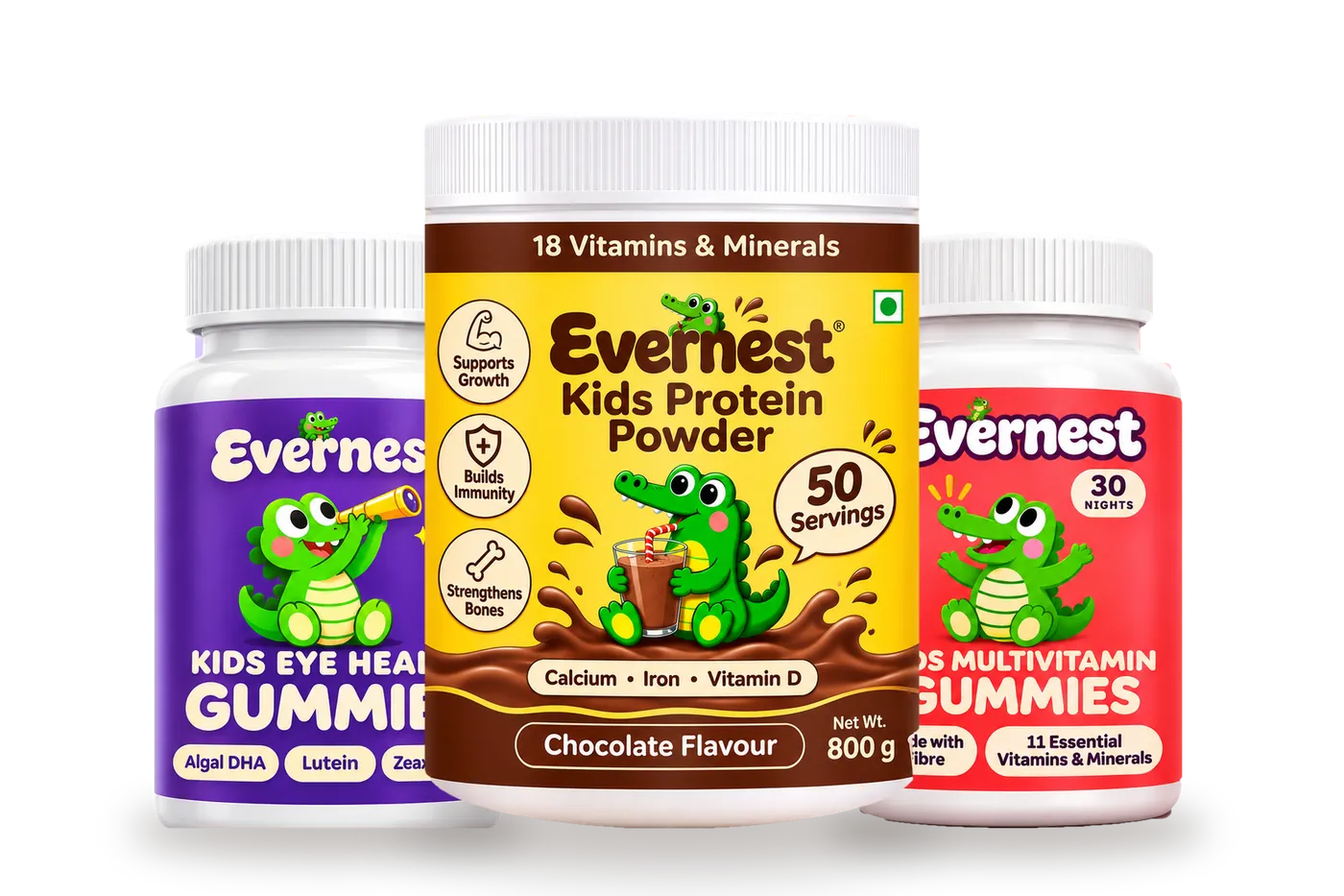
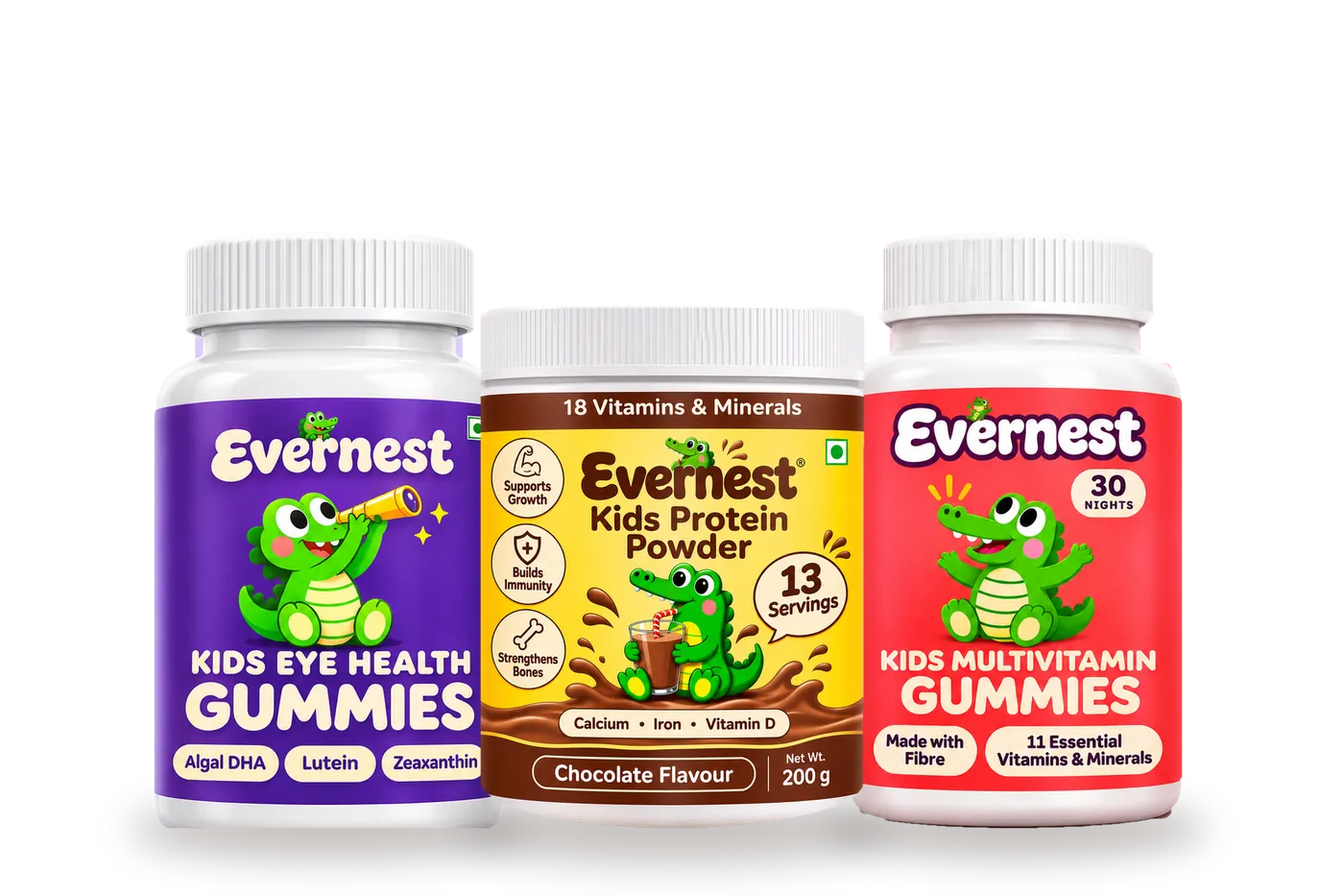
Trio: new 200 g combo hero image, 200 g contents, bundle price Rs 1,437 (MRP 1,597)
Claude-Session: https://claude.ai/code/session_01MW4qc25ku1oEKLCrFeDAAU

Changed region(s): [[0.3071, 0.1243, 0.7064, 0.9325]]

diff --git a/products/evernest-trio/index.html b/products/evernest-trio/index.html
@@ -4,10 +4,10 @@
 <meta charset="utf-8">
 <meta name="viewport" content="width=device-width,initial-scale=1">
 <title>The Evernest Trio</title>
-<meta name="description" content="The Evernest Trio by Evernest. Protein, eye health and multivitamin in one box. Three daily jobs, one easy order. Starting at ₹2,337.">
+<meta name="description" content="The Evernest Trio by Evernest. Protein, eye health and multivitamin in one box. Three daily jobs, one easy order. Starting at ₹1,437.">
 <meta name="theme-color" content="#068A3A">
 <meta property="og:type" content="website"><meta property="og:site_name" content="Evernest">
-<meta property="og:title" content="The Evernest Trio"><meta property="og:description" content="The Evernest Trio by Evernest. Protein, eye health and multivitamin in one box. Three daily jobs, one easy order. Starting at ₹2,337.">
+<meta property="og:title" content="The Evernest Trio"><meta property="og:description" content="The Evernest Trio by Evernest. Protein, eye health and multivitamin in one box. Three daily jobs, one easy order. Starting at ₹1,437.">
 <link rel="canonical" href="https://evernest.space/products/evernest-trio/">
 <link rel="icon" href="../../assets/img/brand/favicon.png?v=b1b62ef7" type="image/png" sizes="64x64">
 <link rel="apple-touch-icon" href="../../assets/img/brand/apple-touch-icon.png?v=0d8b75c6">
@@ -16,8 +16,8 @@
 <link rel="stylesheet" href="../../assets/css/fonts.css?v=3dc87627">
 <link rel="stylesheet" href="../../assets/css/style.css?v=43767b24">
 <meta name="evernest-build" content="631c75e5-a">
-<script type="application/ld+json">{"@context": "https://schema.org", "@type": "Product", "name": "The Evernest Trio", "description": "The Evernest Kids Wellness Combo brings our three heroes together: Kids Protein Powder (800 g, Chocolate), Kids Eye Health Gummies (30) and Kids Multivitamin Gummies (30). One box for growth, bright eyes and everyday immunity, at a bundle price.", "brand": {"@type": "Brand", "name": "Evernest"}, "offers": {"@type": "Offer", "priceCurrency": "INR", "price": "2337", "availability": "https://schema.org/InStock"}}</script>
-<script>window.EVN_PRODUCT={"slug": "evernest-trio", "name": "The Evernest Trio", "mrp": 2597, "flavour": "", "thumb": "../../assets/img/p/trio-front.webp?v=1e6b3ded", "url": "../../products/evernest-trio/", "packs": [{"n": 1, "price": 2337, "label": "Trio box"}]};</script>
+<script type="application/ld+json">{"@context": "https://schema.org", "@type": "Product", "name": "The Evernest Trio", "description": "The Evernest Kids Wellness Combo brings our three heroes together: Kids Protein Powder (200 g, Chocolate), Kids Eye Health Gummies (30) and Kids Multivitamin Gummies (30). One box for growth, bright eyes and everyday immunity, at a bundle price.", "brand": {"@type": "Brand", "name": "Evernest"}, "offers": {"@type": "Offer", "priceCurrency": "INR", "price": "1437", "availability": "https://schema.org/InStock"}}</script>
+<script>window.EVN_PRODUCT={"slug": "evernest-trio", "name": "The Evernest Trio", "mrp": 1597, "flavour": "", "thumb": "../../assets/img/p/trio-front.webp?v=ff8b6d36", "url": "../../products/evernest-trio/", "packs": [{"n": 1, "price": 1437, "label": "Trio box"}]};</script>
 </head>
 <body class="pg-pdp theme-blue">
 <a class="sr" href="#main">Skip to content</a>
@@ -36,16 +36,16 @@
 <section class="pdp pdp2" style="--tint:#F3EEFF" data-say="Choose a pack size!"><div class="container">
 <nav class="crumbs" aria-label="Breadcrumb"><a href="../../">Home</a> <span>/</span> <a href="../../shop/">Shop</a> <span>/</span> <b>The Evernest Trio</b></nav>
 <div class="pdp-grid">
-<div class="gallery"><div class="gsticky"><div class="gstage"><div class="gmain" role="group" aria-roledescription="carousel" aria-label="Product gallery"><div class="slide s1 on" aria-roledescription="slide" aria-label="The Evernest Kids Wellness Combo"><img class="js-pack" src="../../assets/img/p/trio-g1.webp?v=d229d8b5" alt="The Evernest Kids Wellness Combo" width="1000" height="1000" fetchpriority="high"></div><div class="slide" aria-roledescription="slide" aria-label="Protein, Eye Health and Multivitamin together"><img src="../../assets/img/p/trio-g2.webp?v=c49e5e3c" alt="Protein, Eye Health and Multivitamin together" width="1000" height="1000" decoding="async"></div><div class="slide" aria-roledescription="slide" aria-label="What is in the box"><img src="../../assets/img/p/trio-g3.webp?v=035778a3" alt="What is in the box" width="1000" height="1000" decoding="async"></div><div class="slide" aria-roledescription="slide" aria-label="Three daily jobs"><img src="../../assets/img/p/trio-g4.webp?v=c4faa159" alt="Three daily jobs" width="1000" height="1000" decoding="async"></div><div class="slide" aria-roledescription="slide" aria-label="A simple daily routine"><img src="../../assets/img/p/trio-g5.webp?v=2a786918" alt="A simple daily routine" width="1000" height="1000" decoding="async"></div>
+<div class="gallery"><div class="gsticky"><div class="gstage"><div class="gmain" role="group" aria-roledescription="carousel" aria-label="Product gallery"><div class="slide s1 on" aria-roledescription="slide" aria-label="The Evernest Kids Wellness Combo"><img class="js-pack" src="../../assets/img/p/trio-g1.webp?v=4593bebc" alt="The Evernest Kids Wellness Combo" width="1000" height="1000" fetchpriority="high"></div><div class="slide" aria-roledescription="slide" aria-label="Protein, Eye Health and Multivitamin together"><img src="../../assets/img/p/trio-g2.webp?v=4813f4c9" alt="Protein, Eye Health and Multivitamin together" width="1000" height="1000" decoding="async"></div><div class="slide" aria-roledescription="slide" aria-label="What is in the box"><img src="../../assets/img/p/trio-g3.webp?v=7dfbf26e" alt="What is in the box" width="1000" height="1000" decoding="async"></div><div class="slide" aria-roledescription="slide" aria-label="Three daily jobs"><img src="../../assets/img/p/trio-g4.webp?v=c9387bc4" alt="Three daily jobs" width="1000" height="1000" decoding="async"></div><div class="slide" aria-roledescription="slide" aria-label="A simple daily routine"><img src="../../assets/img/p/trio-g5.webp?v=382d7115" alt="A simple daily routine" width="1000" height="1000" decoding="async"></div>
 <div class="arrows"><button class="prev" type="button" aria-label="Previous">&larr;</button><button class="next" type="button" aria-label="Next">&rarr;</button></div><span class="gcount" id="gcount" aria-hidden="true"></span></div></div>
-<div class="gthumbs"><button class="gthumb" type="button" aria-label="The Evernest Kids Wellness Combo" aria-selected="true"><img src="../../assets/img/p/trio-g1.webp?v=d229d8b5" alt="" width="120" height="120" decoding="async"></button><button class="gthumb" type="button" aria-label="Protein, Eye Health and Multivitamin together" aria-selected="false"><img src="../../assets/img/p/trio-g2.webp?v=c49e5e3c" alt="" width="120" height="120" decoding="async"></button><button class="gthumb" type="button" aria-label="What is in the box" aria-selected="false"><img src="../../assets/img/p/trio-g3.webp?v=035778a3" alt="" width="120" height="120" decoding="async"></button><button class="gthumb" type="button" aria-label="Three daily jobs" aria-selected="false"><img src="../../assets/img/p/trio-g4.webp?v=c4faa159" alt="" width="120" height="120" decoding="async"></button><button class="gthumb" type="button" aria-label="A simple daily routine" aria-selected="false"><img src="../../assets/img/p/trio-g5.webp?v=2a786918" alt="" width="120" height="120" decoding="async"></button></div></div>
+<div class="gthumbs"><button class="gthumb" type="button" aria-label="The Evernest Kids Wellness Combo" aria-selected="true"><img src="../../assets/img/p/trio-g1.webp?v=4593bebc" alt="" width="120" height="120" decoding="async"></button><button class="gthumb" type="button" aria-label="Protein, Eye Health and Multivitamin together" aria-selected="false"><img src="../../assets/img/p/trio-g2.webp?v=4813f4c9" alt="" width="120" height="120" decoding="async"></button><button class="gthumb" type="button" aria-label="What is in the box" aria-selected="false"><img src="../../assets/img/p/trio-g3.webp?v=7dfbf26e" alt="" width="120" height="120" decoding="async"></button><button class="gthumb" type="button" aria-label="Three daily jobs" aria-selected="false"><img src="../../assets/img/p/trio-g4.webp?v=c9387bc4" alt="" width="120" height="120" decoding="async"></button><button class="gthumb" type="button" aria-label="A simple daily routine" aria-selected="false"><img src="../../assets/img/p/trio-g5.webp?v=382d7115" alt="" width="120" height="120" decoding="async"></button></div></div>
 <div class="gbadges" aria-label="Key benefits"><div class="gb"><span class="gb-c"><svg class="icon " width="34" height="34" viewBox="0 0 48 48" aria-hidden="true"><g transform="rotate(-45 24 24)"><rect x="11" y="19.5" width="26" height="9" rx="3" fill="currentColor"/><circle cx="10" cy="18" r="5.5" fill="currentColor"/><circle cx="10" cy="30" r="5.5" fill="currentColor"/><circle cx="38" cy="18" r="5.5" fill="currentColor"/><circle cx="38" cy="30" r="5.5" fill="currentColor"/></g></svg></span><small>Strong Bones</small></div><div class="gb"><span class="gb-c"><svg class="icon " width="34" height="34" viewBox="0 0 48 48" aria-hidden="true"><path d="M4 24 Q24 6 44 24 Q24 42 4 24Z" fill="#fff"/><circle cx="24" cy="24" r="9" fill="currentColor"/><circle cx="27" cy="21" r="3" fill="#fff"/></svg></span><small>Eye Health</small></div><div class="gb"><span class="gb-c"><svg class="icon " width="34" height="34" viewBox="0 0 48 48" aria-hidden="true"><path d="M24 5 L40 11 V24 Q40 37 24 44 Q8 37 8 24 V11 Z" fill="currentColor"/><path d="M16 24 L22 30 L33 18" fill="none" stroke="#fff" stroke-width="4" stroke-linecap="round" stroke-linejoin="round"/></svg></span><small>Daily Immunity</small></div><div class="gb"><span class="gb-c"><svg class="icon " width="34" height="34" viewBox="0 0 48 48" aria-hidden="true"><path d="M24 14 C16 8 6 14 8 26 C10 38 18 44 24 40 C30 44 38 38 40 26 C42 14 32 8 24 14Z" fill="currentColor"/><path d="M24 14 Q24 8 28 5" fill="none" stroke="#4B2A17" stroke-width="3" stroke-linecap="round"/><path d="M28 9 q8 -2 10 4 q-8 3 -10 -4" fill="#17A34A"/></svg></span><small>Daily Nutrition</small></div></div>
 <div class="gpromo"><svg class="icon " width="22" height="22" viewBox="0 0 48 48" aria-hidden="true"><rect x="3" y="14" width="26" height="18" rx="3" fill="#17130F"/><path d="M29 20 H38 L44 27 V32 H29Z" fill="#17130F"/><circle cx="14" cy="34" r="5" fill="#fff"/><circle cx="36" cy="34" r="5" fill="#fff"/></svg><span><b>Free delivery</b> on orders above Rs. 499. Pay with UPI, cards and more.</span></div></div>
 <div class="bb">
 <h1>The Evernest Trio</h1>
-<ul class="points"><li><svg class="icon " width="20" height="20" viewBox="0 0 48 48" aria-hidden="true"><circle cx="24" cy="24" r="19" fill="currentColor"/><path d="M14 25 L21 32 L34 17" fill="none" stroke="#fff" stroke-width="5" stroke-linecap="round" stroke-linejoin="round"/></svg><span>Kids Protein Powder 800 g (Chocolate), Eye Health Gummies (30) and Multivitamin Gummies (30)</span></li><li><svg class="icon " width="20" height="20" viewBox="0 0 48 48" aria-hidden="true"><circle cx="24" cy="24" r="19" fill="currentColor"/><path d="M14 25 L21 32 L34 17" fill="none" stroke="#fff" stroke-width="5" stroke-linecap="round" stroke-linejoin="round"/></svg><span>Protein with calcium, iron and vitamin D, DHA with lutein and zeaxanthin, and 11 vitamins and minerals</span></li><li><svg class="icon " width="20" height="20" viewBox="0 0 48 48" aria-hidden="true"><circle cx="24" cy="24" r="19" fill="currentColor"/><path d="M14 25 L21 32 L34 17" fill="none" stroke="#fff" stroke-width="5" stroke-linecap="round" stroke-linejoin="round"/></svg><span>Bundle price, and free delivery included</span></li></ul>
+<ul class="points"><li><svg class="icon " width="20" height="20" viewBox="0 0 48 48" aria-hidden="true"><circle cx="24" cy="24" r="19" fill="currentColor"/><path d="M14 25 L21 32 L34 17" fill="none" stroke="#fff" stroke-width="5" stroke-linecap="round" stroke-linejoin="round"/></svg><span>Kids Protein Powder 200 g (Chocolate), Eye Health Gummies (30) and Multivitamin Gummies (30)</span></li><li><svg class="icon " width="20" height="20" viewBox="0 0 48 48" aria-hidden="true"><circle cx="24" cy="24" r="19" fill="currentColor"/><path d="M14 25 L21 32 L34 17" fill="none" stroke="#fff" stroke-width="5" stroke-linecap="round" stroke-linejoin="round"/></svg><span>Protein with calcium, iron and vitamin D, DHA with lutein and zeaxanthin, and 11 vitamins and minerals</span></li><li><svg class="icon " width="20" height="20" viewBox="0 0 48 48" aria-hidden="true"><circle cx="24" cy="24" r="19" fill="currentColor"/><path d="M14 25 L21 32 L34 17" fill="none" stroke="#fff" stroke-width="5" stroke-linecap="round" stroke-linejoin="round"/></svg><span>Bundle price, and free delivery included</span></li></ul>
 <div class="meta"><span class="flavtag">3 products</span></div>
-<div class="price"><span class="now" id="pr-now">₹2,337</span><span class="mrp" id="pr-mrp">₹2,597</span><span class="off" id="pr-off">10% off</span></div>
+<div class="price"><span class="now" id="pr-now">₹1,437</span><span class="mrp" id="pr-mrp">₹1,597</span><span class="off" id="pr-off">10% off</span></div>
 <p class="tax">Inclusive of all taxes. <span id="pr-per" style="font-weight:700"></span></p>
 
 <div class="qty-row"><div class="qty" aria-label="Quantity"><button type="button" id="qty-minus" aria-label="Decrease">&minus;</button><output id="qty-out" aria-live="polite">1</output><button type="button" id="qty-plus" aria-label="Increase">+</button></div>
@@ -55,8 +55,8 @@
 <div class="trust3"><div class="tr"><div class="ic"><svg class="icon " width="22" height="22" viewBox="0 0 48 48" aria-hidden="true"><circle cx="24" cy="24" r="19" fill="#17130F"/><path d="M14 25 L21 32 L34 17" fill="none" stroke="#fff" stroke-width="5" stroke-linecap="round" stroke-linejoin="round"/></svg></div><b>Easy replacements</b><small>Wrong or damaged? We replace it</small></div><div class="tr"><div class="ic"><svg class="icon " width="22" height="22" viewBox="0 0 48 48" aria-hidden="true"><path d="M4 8 H11 L16 32 H37 L42 14 H13" fill="none" stroke="#17130F" stroke-width="4.5" stroke-linecap="round" stroke-linejoin="round"/><circle cx="19" cy="40" r="3.5" fill="#17130F"/><circle cx="34" cy="40" r="3.5" fill="#17130F"/></svg></div><b>COD available</b><small>Pay when it arrives</small></div><div class="tr"><div class="ic"><svg class="icon " width="22" height="22" viewBox="0 0 48 48" aria-hidden="true"><rect x="3" y="14" width="26" height="18" rx="3" fill="#17130F"/><path d="M29 20 H38 L44 27 V32 H29Z" fill="#17130F"/><circle cx="14" cy="34" r="5" fill="#fff"/><circle cx="36" cy="34" r="5" fill="#fff"/></svg></div><b>Delivery in 3 to 7 days</b><small>Free above Rs. 499</small></div></div>
 <div class="pay-strip"><div class="t"><svg class="icon " width="14" height="14" viewBox="0 0 48 48" aria-hidden="true"><rect x="9" y="21" width="30" height="21" rx="5" fill="#17130F"/><path d="M15 21 V15 Q15 7 24 7 Q33 7 33 15 V21" fill="none" stroke="#17130F" stroke-width="5"/><circle cx="24" cy="31" r="3.5" fill="#fff"/></svg> Pay your way, we accept:</div><div class="pay"><span class="pm" title="Visa"><img src="../../assets/img/pay/visa.svg?v=2660af94" alt="Visa" width="37" height="12" style="--h:12px" loading="lazy" decoding="async"></span><span class="pm" title="UPI"><img src="../../assets/img/pay/upi.svg?v=94251836" alt="UPI" width="40" height="14" style="--h:14px" loading="lazy" decoding="async"></span><span class="pm" title="Google Pay"><img src="../../assets/img/pay/gpay.svg?v=ea65638c" alt="Google Pay" width="35" height="14" style="--h:14px" loading="lazy" decoding="async"></span><span class="pm" title="Mastercard"><img src="../../assets/img/pay/mastercard.svg?v=3f026743" alt="Mastercard" width="22" height="17" style="--h:17px" loading="lazy" decoding="async"></span><span class="pm" title="Paytm"><img src="../../assets/img/pay/paytm.svg?v=549cc018" alt="Paytm" width="29" height="9" style="--h:9px" loading="lazy" decoding="async"></span><span class="pm" title="PhonePe"><img src="../../assets/img/pay/phonepe.svg?v=51b202cf" alt="PhonePe" width="43" height="13" style="--h:13px" loading="lazy" decoding="async"></span></div></div>
 <div class="acc">
-<details><summary>About this product</summary><div class="ans"><p>The Evernest Kids Wellness Combo brings our three heroes together: Kids Protein Powder (800 g, Chocolate), Kids Eye Health Gummies (30) and Kids Multivitamin Gummies (30). One box for growth, bright eyes and everyday immunity, at a bundle price.</p></div></details>
-<details><summary>What is in the box</summary><div class="ans"><ul><li><b>Kids Protein Powder:</b> 800 g, Chocolate flavour, 50 servings of 15 g with 18 vitamins and minerals.</li><li><b>Kids Eye Health Gummies:</b> 30 gummies with Algal DHA, Lutein and Zeaxanthin for healthy eyes.</li><li><b>Kids Multivitamin Gummies:</b> 30 gummies with 11 essential vitamins and minerals and fibre.</li></ul><p class="note-small" style="margin-top:.6rem">Please refer to the label on the pack for the complete ingredient list, amounts and allergen information.</p></div></details>
+<details><summary>About this product</summary><div class="ans"><p>The Evernest Kids Wellness Combo brings our three heroes together: Kids Protein Powder (200 g, Chocolate), Kids Eye Health Gummies (30) and Kids Multivitamin Gummies (30). One box for growth, bright eyes and everyday immunity, at a bundle price.</p></div></details>
+<details><summary>What is in the box</summary><div class="ans"><ul><li><b>Kids Protein Powder:</b> 200 g, Chocolate flavour, 13 servings of 15 g with 18 vitamins and minerals.</li><li><b>Kids Eye Health Gummies:</b> 30 gummies with Algal DHA, Lutein and Zeaxanthin for healthy eyes.</li><li><b>Kids Multivitamin Gummies:</b> 30 gummies with 11 essential vitamins and minerals and fibre.</li></ul><p class="note-small" style="margin-top:.6rem">Please refer to the label on the pack for the complete ingredient list, amounts and allergen information.</p></div></details>
 <details><summary>Good to know</summary><div class="ans"><ul><li>Supplements to a balanced diet. They do not replace fruits, vegetables and proper meals.</li><li>Gummies are recommended for children aged 3 and above, protein for ages 4 and above. Always supervise young children while eating gummies.</li><li>Please read the allergen information and serving size printed on each pack. Check with your paediatrician if your child has a medical condition.</li></ul></div></details>
 </div>
 </div></div></div></section>
@@ -68,21 +68,21 @@
 <div class="b2-grid"><div class="b2 t0 reveal d1"><div class="b2-ic"><svg class="icon " width="34" height="34" viewBox="0 0 48 48" aria-hidden="true"><path d="M28 4 L10 27 H22 L18 44 L38 19 H26 Z" fill="#17130F"/></svg></div><h3>Fuel for growth</h3><p>Protein with calcium, iron and vitamin D for growing muscles, bones and play day energy.</p></div><div class="b2 t1 reveal d2"><div class="b2-ic"><svg class="icon " width="34" height="34" viewBox="0 0 48 48" aria-hidden="true"><path d="M4 24 Q24 6 44 24 Q24 42 4 24Z" fill="#fff"/><circle cx="24" cy="24" r="9" fill="#17130F"/><circle cx="27" cy="21" r="3" fill="#fff"/></svg></div><h3>Bright eyes</h3><p>Algal DHA, lutein and zeaxanthin to support healthy eyes in the screen and study years.</p></div><div class="b2 t2 reveal d3"><div class="b2-ic"><svg class="icon " width="34" height="34" viewBox="0 0 48 48" aria-hidden="true"><path d="M24 5 L40 11 V24 Q40 37 24 44 Q8 37 8 24 V11 Z" fill="#17130F"/><path d="M16 24 L22 30 L33 18" fill="none" stroke="#fff" stroke-width="4" stroke-linecap="round" stroke-linejoin="round"/></svg></div><h3>Daily immunity</h3><p>Vitamin C, zinc and 9 more vitamins and minerals in one tasty gummy.</p></div><div class="b2 t3 reveal d4"><div class="b2-ic"><svg class="icon " width="34" height="34" viewBox="0 0 48 48" aria-hidden="true"><path d="M24 41 C6 28 6 12 17 11 C21 11 23 13 24 16 C25 13 27 11 31 11 C42 12 42 28 24 41Z" fill="#17130F"/></svg></div><h3>Easier for parents</h3><p>One box, one routine, one delivery. No hunting for three separate orders.</p></div></div></div></section>
 
 <section class="pdp-sec s-well"><div class="container well">
-<div class="well-img reveal"><img src="../../assets/img/p/trio-g2.webp?v=c49e5e3c" alt="The Evernest Trio lifestyle" width="1000" height="1000" loading="lazy"></div>
+<div class="well-img reveal"><img src="../../assets/img/p/trio-g2.webp?v=4813f4c9" alt="The Evernest Trio lifestyle" width="1000" height="1000" loading="lazy"></div>
 <div class="well-tx reveal d1"><span class="eyebrow">made with care</span><h2>One box for everyday wellness</h2><p>Instead of picking one product, give your child a complete daily routine: a protein drink for growth, a gummy for eye health and a multivitamin gummy for everyday immunity.</p><ul class="points big"><li><svg class="icon " width="20" height="20" viewBox="0 0 48 48" aria-hidden="true"><circle cx="24" cy="24" r="19" fill="currentColor"/><path d="M14 25 L21 32 L34 17" fill="none" stroke="#fff" stroke-width="5" stroke-linecap="round" stroke-linejoin="round"/></svg><span>Protein with calcium, iron and vitamin D to support growth and strong bones</span></li><li><svg class="icon " width="20" height="20" viewBox="0 0 48 48" aria-hidden="true"><circle cx="24" cy="24" r="19" fill="currentColor"/><path d="M14 25 L21 32 L34 17" fill="none" stroke="#fff" stroke-width="5" stroke-linecap="round" stroke-linejoin="round"/></svg><span>Algal DHA, lutein and zeaxanthin to support normal eye health</span></li><li><svg class="icon " width="20" height="20" viewBox="0 0 48 48" aria-hidden="true"><circle cx="24" cy="24" r="19" fill="currentColor"/><path d="M14 25 L21 32 L34 17" fill="none" stroke="#fff" stroke-width="5" stroke-linecap="round" stroke-linejoin="round"/></svg><span>11 vitamins and minerals to support everyday immunity and development</span></li><li><svg class="icon " width="20" height="20" viewBox="0 0 48 48" aria-hidden="true"><circle cx="24" cy="24" r="19" fill="currentColor"/><path d="M14 25 L21 32 L34 17" fill="none" stroke="#fff" stroke-width="5" stroke-linecap="round" stroke-linejoin="round"/></svg><span>One order, one delivery, a better price than buying separately</span></li></ul>
 <button class="btn btn-lg js-pdp-buy" type="button">Buy now</button></div></div></section>
-<section class="pdp-sec s-banner"><div class="container"><div class="bnr reveal"><img src="../../assets/img/p/trio-banner.webp?v=3f5b6886" alt="Evernest Kids Wellness Combo benefits" width="1000" height="512" loading="lazy"></div></div></section>
+<section class="pdp-sec s-banner"><div class="container"><div class="bnr reveal"><img src="../../assets/img/p/trio-banner.webp?v=aca56bd9" alt="Evernest Kids Wellness Combo benefits" width="1000" height="512" loading="lazy"></div></div></section>
 <section class="pdp-sec s-ing"><div class="container">
 <div class="sec-head"><span class="eyebrow reveal">peek inside</span><h2 class="sec-title reveal d1">What is <span class="ul">in the box<svg viewBox="0 0 200 20" preserveAspectRatio="none" aria-hidden="true"><path d="M3 12 C38 4 74 17 112 9 S178 7 197 13"/></svg></span></h2><p class="sec-sub reveal d2">Three products, each with its full list and amounts on the pack.</p></div>
-<div class="i2-grid"><div class="i2 reveal d1"><span class="i2-c">P</span><h3>Kids Protein Powder</h3><p>800 g, Chocolate flavour, 50 servings of 15 g with 18 vitamins and minerals.</p></div><div class="i2 reveal d2"><span class="i2-c">Eye</span><h3>Kids Eye Health Gummies</h3><p>30 gummies with Algal DHA, Lutein and Zeaxanthin for healthy eyes.</p></div><div class="i2 reveal d3"><span class="i2-c">MV</span><h3>Kids Multivitamin Gummies</h3><p>30 gummies with 11 essential vitamins and minerals and fibre.</p></div></div></div></section>
+<div class="i2-grid"><div class="i2 reveal d1"><span class="i2-c">P</span><h3>Kids Protein Powder</h3><p>200 g, Chocolate flavour, 13 servings of 15 g with 18 vitamins and minerals.</p></div><div class="i2 reveal d2"><span class="i2-c">Eye</span><h3>Kids Eye Health Gummies</h3><p>30 gummies with Algal DHA, Lutein and Zeaxanthin for healthy eyes.</p></div><div class="i2 reveal d3"><span class="i2-c">MV</span><h3>Kids Multivitamin Gummies</h3><p>30 gummies with 11 essential vitamins and minerals and fibre.</p></div></div></div></section>
 
 <section class="pdp-sec s-info"><div class="container">
 <div class="sec-head"><span class="eyebrow reveal">the details</span><h2 class="sec-title reveal d1">Product <span class="ul">information<svg viewBox="0 0 200 20" preserveAspectRatio="none" aria-hidden="true"><path d="M3 12 C38 4 74 17 112 9 S178 7 197 13"/></svg></span></h2></div>
-<div class="comp"><table><caption class="sr">Box contents for The Evernest Trio</caption><tr class="ch"><th>Nutrient</th><th>Details</th></tr><tr class="cg"><th colspan="2">Kids Protein Powder</th></tr><tr><td>Size</td><td>800 g</td></tr><tr><td>Flavour</td><td>Chocolate</td></tr><tr><td>Servings</td><td>50 servings of 15 g</td></tr><tr><td>Key nutrients</td><td>Protein, Calcium, Iron, Vitamin D and 18 vitamins and minerals</td></tr><tr class="cg"><th colspan="2">Kids Eye Health Gummies</th></tr><tr><td>Count</td><td>30 gummies</td></tr><tr><td>Key nutrients</td><td>Algal DHA, Lutein, Zeaxanthin, Vitamins A, C and E, Zinc</td></tr><tr class="cg"><th colspan="2">Kids Multivitamin Gummies</th></tr><tr><td>Count</td><td>30 gummies, 3 g each</td></tr><tr><td>Key nutrients</td><td>11 essential vitamins and minerals, made with fibre</td></tr></table><p class="note-small">Approximate values. The full nutrition table for each product is on its own page and on the pack. These products are dietary supplements and are not intended to diagnose, treat, cure or prevent any disease.</p></div></div></section>
+<div class="comp"><table><caption class="sr">Box contents for The Evernest Trio</caption><tr class="ch"><th>Nutrient</th><th>Details</th></tr><tr class="cg"><th colspan="2">Kids Protein Powder</th></tr><tr><td>Size</td><td>200 g</td></tr><tr><td>Flavour</td><td>Chocolate</td></tr><tr><td>Servings</td><td>13 servings of 15 g</td></tr><tr><td>Key nutrients</td><td>Protein, Calcium, Iron, Vitamin D and 18 vitamins and minerals</td></tr><tr class="cg"><th colspan="2">Kids Eye Health Gummies</th></tr><tr><td>Count</td><td>30 gummies</td></tr><tr><td>Key nutrients</td><td>Algal DHA, Lutein, Zeaxanthin, Vitamins A, C and E, Zinc</td></tr><tr class="cg"><th colspan="2">Kids Multivitamin Gummies</th></tr><tr><td>Count</td><td>30 gummies, 3 g each</td></tr><tr><td>Key nutrients</td><td>11 essential vitamins and minerals, made with fibre</td></tr></table><p class="note-small">Approximate values. The full nutrition table for each product is on its own page and on the pack. These products are dietary supplements and are not intended to diagnose, treat, cure or prevent any disease.</p></div></div></section>
 
 <section class="pdp-sec s-how"><div class="container">
 <div class="sec-head"><span class="eyebrow reveal">so easy</span><h2 class="sec-title reveal d1">How to <span class="ul">use<svg viewBox="0 0 200 20" preserveAspectRatio="none" aria-hidden="true"><path d="M3 12 C38 4 74 17 112 9 S178 7 197 13"/></svg></span> it</h2></div>
-<div class="howgrid"><div class="how-img reveal"><img src="../../assets/img/p/trio-g5.webp?v=2a786918" alt="How to use The Evernest Trio" width="1000" height="1000" loading="lazy"></div><div class="today"><div class="how reveal d1"><div class="n">1</div><h3 style="font-size:1.25rem">Stir the protein</h3><p>Mix 15 g of Kids Protein Powder into a glass of milk once a day, after play or with breakfast.</p></div><div class="how reveal d2"><div class="n">2</div><h3 style="font-size:1.25rem">Chew the eye gummies</h3><p>Give Kids Eye Health Gummies as per the serving printed on the pack, chewed well.</p></div><div class="how reveal d3"><div class="n">3</div><h3 style="font-size:1.25rem">Finish with a multivitamin</h3><p>Give 1 Kids Multivitamin Gummy a day, chewed well.</p></div></div></div>
+<div class="howgrid"><div class="how-img reveal"><img src="../../assets/img/p/trio-g5.webp?v=382d7115" alt="How to use The Evernest Trio" width="1000" height="1000" loading="lazy"></div><div class="today"><div class="how reveal d1"><div class="n">1</div><h3 style="font-size:1.25rem">Stir the protein</h3><p>Mix 15 g of Kids Protein Powder into a glass of milk once a day, after play or with breakfast.</p></div><div class="how reveal d2"><div class="n">2</div><h3 style="font-size:1.25rem">Chew the eye gummies</h3><p>Give Kids Eye Health Gummies as per the serving printed on the pack, chewed well.</p></div><div class="how reveal d3"><div class="n">3</div><h3 style="font-size:1.25rem">Finish with a multivitamin</h3><p>Give 1 Kids Multivitamin Gummy a day, chewed well.</p></div></div></div>
 <p class="note-small" style="text-align:center;margin-top:1.6rem">*A supplement to a balanced diet. Please check allergen information on the pack and consult your paediatrician if your child has a medical condition.</p></div></section>
 
 <section class="pdp-sec s-vs"><div class="container">
@@ -95,7 +95,7 @@
 
 <section class="pdp-sec s-faq"><div class="container">
 <div class="sec-head"><span class="eyebrow reveal">good questions</span><h2 class="sec-title reveal d1">Trio <span class="ul">FAQs<svg viewBox="0 0 200 20" preserveAspectRatio="none" aria-hidden="true"><path d="M3 12 C38 4 74 17 112 9 S178 7 197 13"/></svg></span></h2></div>
-<div class="faq"><details><summary>What is in the Trio box?</summary><div class="ans"><p>One Kids Protein Powder (800 g, Chocolate), one Kids Eye Health Gummies jar (30 gummies) and one Kids Multivitamin Gummies jar (30 gummies).</p></div></details><details><summary>Can my child take all three every day?</summary><div class="ans"><p>They are designed as three separate daily products, each with its own serving on the pack. Please follow the serving size on each pack, and check with your paediatrician if you are unsure.</p></div></details><details><summary>Can I pick a different protein flavour or size?</summary><div class="ans"><p>The Trio comes with the 800 g Chocolate protein. If you would like Strawberry, Cookies and Cream or another size, you can order the products separately from their own pages.</p></div></details><details><summary>How much do I save?</summary><div class="ans"><p>The Trio costs less than buying the three products separately. The exact saving is shown next to the price on this page.</p></div></details><details><summary>Is it a replacement for meals?</summary><div class="ans"><p>No. These are supplements to a balanced diet and never replace fruits, vegetables and proper meals.</p></div></details><details><summary>How long will the box last?</summary><div class="ans"><p>The gummies are 30 gummies each, and the protein tub has 50 servings of 15 g. Actual time depends on how often your child has each product.</p></div></details><details><summary>Do you offer Cash on Delivery?</summary><div class="ans"><p>Yes, Cash on Delivery is available. Delivery takes 3 to 7 days, and delivery is free above Rs. 499.</p></div></details></div></div></section>
+<div class="faq"><details><summary>What is in the Trio box?</summary><div class="ans"><p>One Kids Protein Powder (200 g, Chocolate), one Kids Eye Health Gummies jar (30 gummies) and one Kids Multivitamin Gummies jar (30 gummies).</p></div></details><details><summary>Can my child take all three every day?</summary><div class="ans"><p>They are designed as three separate daily products, each with its own serving on the pack. Please follow the serving size on each pack, and check with your paediatrician if you are unsure.</p></div></details><details><summary>Can I pick a different protein flavour or size?</summary><div class="ans"><p>The Trio comes with the 200 g Chocolate protein. If you would like Strawberry, Cookies and Cream or another size, you can order the products separately from their own pages.</p></div></details><details><summary>How much do I save?</summary><div class="ans"><p>The Trio costs less than buying the three products separately. The exact saving is shown next to the price on this page.</p></div></details><details><summary>Is it a replacement for meals?</summary><div class="ans"><p>No. These are supplements to a balanced diet and never replace fruits, vegetables and proper meals.</p></div></details><details><summary>How long will the box last?</summary><div class="ans"><p>The gummies are 30 gummies each, and the 200 g protein tub has 13 servings of 15 g. Actual time depends on how often your child has each product.</p></div></details><details><summary>Do you offer Cash on Delivery?</summary><div class="ans"><p>Yes, Cash on Delivery is available. Delivery takes 3 to 7 days, and delivery is free above Rs. 499.</p></div></details></div></div></section>
 
 <section class="pdp-sec s-pair"><div class="container">
 <div class="reel-head"><div class="rd"><svg class="drg chomp loop" viewBox="0 0 260 240" role="img" aria-label="Evernest dragon mascot" focusable="false" data-gum="../../assets/img/g/gummy-0.webp?v=a58f377d"><defs><clipPath id="deL15"><circle cx="124" cy="54" r="19"/></clipPath><clipPath id="deR15"><circle cx="157" cy="58" r="20"/></clipPath></defs><g transform="translate(260 0) scale(-1 1)"><g class="bd"><g class="tail"><path d="M96 198C62 226 26 220 14 188" fill="none" stroke="#27963A" stroke-width="26" stroke-linecap="round"/><circle cx="52" cy="208" r="6" fill="#0D6B2A"/><circle cx="30" cy="198" r="5.5" fill="#0D6B2A"/></g><circle cx="90" cy="120" r="18" fill="#0D6B2A"/><circle cx="84" cy="154" r="18" fill="#0D6B2A"/><circle cx="88" cy="186" r="16" fill="#0D6B2A"/><g class="legB"><rect x="104" y="198" width="34" height="30" rx="14" fill="#27963A" stroke="#0B5A22" stroke-width="4"/><path d="M124 217v7M131 217v7" stroke="#0B5A22" stroke-width="3" stroke-linecap="round"/></g><g class="legF"><rect x="138" y="198" width="34" height="30" rx="14" fill="#27963A" stroke="#0B5A22" stroke-width="4"/><path d="M158 217v7M165 217v7" stroke="#0B5A22" stroke-width="3" stroke-linecap="round"/></g><g class="armB"><rect x="104" y="132" width="20" height="56" rx="10" fill="#1F8232"/><ellipse cx="114" cy="192" rx="15" ry="13" fill="#1F8232" stroke="#0B5A22" stroke-width="4"/><path d="M109 191v7M118 191v7" stroke="#0B5A22" stroke-width="3" stroke-linecap="round"/></g><rect x="88" y="94" width="78" height="112" rx="36" fill="#27963A"/><ellipse cx="148" cy="170" rx="21" ry="30" fill="#EBE4B2"/><path d="M132 158h32" stroke="#D3CB92" stroke-width="3" stroke-linecap="round"/><g class="head"><circle cx="106" cy="62" r="16" fill="#0D6B2A"/><rect x="102" y="32" width="76" height="76" rx="34" fill="#27963A"/><rect x="152" y="62" width="84" height="36" rx="18" fill="#27963A"/><g class="wedge"><path d="M158 99H236L229 132Z" fill="#B02A1F"/><ellipse cx="200" cy="108" rx="16" ry="5" fill="#E8553F"/></g><g class="jaw"><path d="M156 98H232Q238 108 224 118H172Q156 118 156 104Z" fill="#27963A"/></g><rect x="152" y="62" width="84" height="36" rx="18" fill="#27963A"/><path d="M172 97h10l-5 11z" fill="#EBE4B2" stroke="#B7AC68" stroke-width="2" stroke-linejoin="round"/><path d="M192 97h10l-5 11z" fill="#EBE4B2" stroke="#B7AC68" stroke-width="2" stroke-linejoin="round"/><path d="M212 97h10l-5 11z" fill="#EBE4B2" stroke="#B7AC68" stroke-width="2" stroke-linejoin="round"/><circle cx="228" cy="72" r="3.2" fill="#0B5A22"/><circle cx="217" cy="75" r="3.2" fill="#0B5A22"/><circle cx="150" cy="92" r="11" fill="#FF9A66"/><path d="M164 101q6 4 12 0" fill="none" stroke="#0B5A22" stroke-width="3" stroke-linecap="round"/><g class="eyes"><circle cx="124" cy="54" r="19" fill="#fff"/><g clip-path="url(#deL15)"><circle class="pup" cx="129" cy="57" r="10.5" fill="#1B1A19"/><circle class="shine" cx="125" cy="52" r="3" fill="#fff"/><rect class="lid" x="103" y="33" width="42" height="42" fill="#27963A"/><path class="lash" d="M110.7 56 Q124 65.4 137.3 56" fill="none" stroke="#0B5A22" stroke-width="6" stroke-linecap="round"/></g><circle cx="157" cy="58" r="20" fill="#fff"/><g clip-path="url(#deR15)"><circle class="pup" cx="162" cy="61" r="10.5" fill="#1B1A19"/><circle class="shine" cx="158" cy="56" r="3" fill="#fff"/><rect class="lid" x="135" y="36" width="44" height="44" fill="#27963A"/><path class="lash" d="M143.0 60 Q157 70.0 171.0 60" fill="none" stroke="#0B5A22" stroke-width="6" stroke-linecap="round"/></g></g></g><g class="armF"><rect x="146" y="132" width="20" height="56" rx="10" fill="#27963A"/><ellipse cx="156" cy="192" rx="15" ry="13" fill="#27963A" stroke="#0B5A22" stroke-width="4"/><path d="M151 191v7M160 191v7" stroke="#0B5A22" stroke-width="3" stroke-linecap="round"/><g transform="translate(156 190)"><g class="gum"><circle cx="0" cy="3" r="9" fill="#F2334D"/><circle cx="0" cy="-8" r="7" fill="#F2334D"/><circle cx="-6" cy="-14" r="3.2" fill="#F2334D"/><circle cx="6" cy="-14" r="3.2" fill="#F2334D"/><ellipse cx="-3" cy="-1" rx="3" ry="5" fill="#fff" opacity=".4"/></g></g></g></g></g></svg></div><div class="sec-head"><span class="eyebrow reveal">best friends</span><h2 class="sec-title reveal d1">Pairs well <span class="ul">with<svg viewBox="0 0 200 20" preserveAspectRatio="none" aria-hidden="true"><path d="M3 12 C38 4 74 17 112 9 S178 7 197 13"/></svg></span></h2></div></div>
@@ -129,7 +129,7 @@
 <div class="g g3"><img src="../../assets/img/g/gummy-1.webp?v=04086773" alt="" width="200" height="200" loading="lazy"></div><div class="g g4"><img src="../../assets/img/g/gummy-2.webp?v=8c369c92" alt="" width="200" height="200" loading="lazy"></div>
 <h2>Ready for the yum?</h2><p>Pick your pack and tap Buy now. It takes less than a minute.</p>
 <a class="btn btn-lg" href="../../shop/">Shop now</a></div></div></section>
-<div class="sticky-buy"><div class="sb-in"><img class="sb-img" src="../../assets/img/p/trio-front.webp?v=1e6b3ded" alt="" width="48" height="48"><div class="sp"><b id="sticky-price">₹2,337</b><small>The Evernest Trio</small></div><button class="btn btn-sb-add js-pdp-add" type="button">Add to cart</button><button class="btn btn-sb-buy js-pdp-buy" type="button">Buy now</button></div></div>
+<div class="sticky-buy"><div class="sb-in"><img class="sb-img" src="../../assets/img/p/trio-front.webp?v=ff8b6d36" alt="" width="48" height="48"><div class="sp"><b id="sticky-price">₹1,437</b><small>The Evernest Trio</small></div><button class="btn btn-sb-add js-pdp-add" type="button">Add to cart</button><button class="btn btn-sb-buy js-pdp-buy" type="button">Buy now</button></div></div>
 </main>
 <footer class="site-footer"><div class="container">
 <div class="fgrid">

diff --git a/index.html b/index.html
@@ -42,7 +42,7 @@
 </div>
 <div class="hero-art" id="hero-art">
 <div class="panel"></div>
-<img class="main" src="assets/img/hero-trio.webp?v=c46546c6" alt="Evernest Kids Protein Powder, Kids Eye Health Gummies and Multivitamin Gummies" width="1400" height="933" fetchpriority="high">
+<img class="main" src="assets/img/hero-trio.webp?v=6e0058b9" alt="Evernest Kids Protein Powder, Kids Eye Health Gummies and Multivitamin Gummies" width="1400" height="933" fetchpriority="high">
 <div class="fl a" data-depth="18"><img src="assets/img/g/gummy-0.webp?v=a58f377d" alt="" width="200" height="200"></div>
 <div class="fl b" data-depth="-14"><img src="assets/img/g/gummy-1.webp?v=04086773" alt="" width="200" height="200"></div>
 <div class="fl c" data-depth="10"><img src="assets/img/g/gummy-3.webp?v=b659b6ee" alt="" width="200" height="200"></div>
@@ -83,11 +83,11 @@
 <div class="price"><span class="now">₹499</span><span class="mrp" hidden>₹499</span><span class="off" hidden>0% off</span></div>
 <button class="btn btn-add js-add" type="button" data-product="multivitamin-gummies" data-name="Multivitamin Gummies" data-variant="" data-price="499" data-mrp="499" data-pack="1 jar, 30 gummies" data-thumb="assets/img/p/multivitamin-front.webp?v=5ce12c10" data-url="products/multivitamin-gummies/">Add to cart</button>
 </div></article><article class="pcard c-trio" data-cat="bundles" data-s="trio bundle combo protein eye health multivitamin all three">
-<a class="pimg" href="products/evernest-trio/" aria-label="The Evernest Trio"><span class="tagbadge">Best value</span><span class="save">10% off</span><img src="assets/img/hero-trio.webp?v=c46546c6" alt="Evernest Trio bundle: protein, eye health and multivitamin" width="1400" height="933" decoding="async"></a>
+<a class="pimg" href="products/evernest-trio/" aria-label="The Evernest Trio"><span class="tagbadge">Best value</span><span class="save">10% off</span><img src="assets/img/hero-trio.webp?v=6e0058b9" alt="Evernest Trio bundle: protein, eye health and multivitamin" width="1400" height="933" decoding="async"></a>
 <div class="pbody"><h3><a href="products/evernest-trio/">The Evernest Trio</a></h3>
 <p class="punit">One of each hero · 3 products</p>
-<div class="price"><span class="now">₹2,337</span><span class="mrp">₹2,597</span><span class="off">10% off</span></div>
-<button class="btn btn-add js-trio" data-act="cart" data-price="2337" data-mrp="2597" data-thumb="assets/img/hero-trio.webp?v=c46546c6" type="button">Add to cart</button>
+<div class="price"><span class="now">₹1,437</span><span class="mrp">₹1,597</span><span class="off">10% off</span></div>
+<button class="btn btn-add js-trio" data-act="cart" data-price="1437" data-mrp="1597" data-thumb="assets/img/hero-trio.webp?v=6e0058b9" type="button">Add to cart</button>
 </div></article></div>
 </div></section>
 <div class="trust"><div class="container trust-grid"><div class="tr"><div class="ic"><svg class="icon " width="26" height="26" viewBox="0 0 48 48" aria-hidden="true"><rect x="3" y="14" width="26" height="18" rx="3" fill="#17130F"/><path d="M29 20 H38 L44 27 V32 H29Z" fill="#17130F"/><circle cx="14" cy="34" r="5" fill="#fff"/><circle cx="36" cy="34" r="5" fill="#fff"/></svg></div><div>Free delivery<small>Above Rs. 499</small></div></div><div class="tr"><div class="ic"><svg class="icon " width="26" height="26" viewBox="0 0 48 48" aria-hidden="true"><circle cx="24" cy="24" r="19" fill="#17130F"/><path d="M14 25 L21 32 L34 17" fill="none" stroke="#fff" stroke-width="5" stroke-linecap="round" stroke-linejoin="round"/></svg></div><div>Made for ages 4+<small>Kid friendly and yummy</small></div></div><div class="tr"><div class="ic"><svg class="icon " width="26" height="26" viewBox="0 0 48 48" aria-hidden="true"><rect x="9" y="21" width="30" height="21" rx="5" fill="#17130F"/><path d="M15 21 V15 Q15 7 24 7 Q33 7 33 15 V21" fill="none" stroke="#17130F" stroke-width="5"/><circle cx="24" cy="31" r="3.5" fill="#fff"/></svg></div><div>UPI and cards<small>PhonePe, Paytm, GPay</small></div></div><div class="tr"><div class="ic"><svg class="icon " width="26" height="26" viewBox="0 0 48 48" aria-hidden="true"><path d="M24 41 C6 28 6 12 17 11 C21 11 23 13 24 16 C25 13 27 11 31 11 C42 12 42 28 24 41Z" fill="#17130F"/></svg></div><div>Real human help<small>We reply to every message</small></div></div></div></div>

diff --git a/shop/index.html b/shop/index.html
@@ -62,11 +62,11 @@
 <div class="price"><span class="now">₹499</span><span class="mrp" hidden>₹499</span><span class="off" hidden>0% off</span></div>
 <button class="btn btn-add js-add" type="button" data-product="multivitamin-gummies" data-name="Multivitamin Gummies" data-variant="" data-price="499" data-mrp="499" data-pack="1 jar, 30 gummies" data-thumb="../assets/img/p/multivitamin-front.webp?v=5ce12c10" data-url="../products/multivitamin-gummies/">Add to cart</button>
 </div></article><article class="pcard c-trio" data-cat="bundles" data-s="trio bundle combo protein eye health multivitamin all three">
-<a class="pimg" href="../products/evernest-trio/" aria-label="The Evernest Trio"><span class="tagbadge">Best value</span><span class="save">10% off</span><img src="../assets/img/hero-trio.webp?v=c46546c6" alt="Evernest Trio bundle: protein, eye health and multivitamin" width="1400" height="933" decoding="async"></a>
+<a class="pimg" href="../products/evernest-trio/" aria-label="The Evernest Trio"><span class="tagbadge">Best value</span><span class="save">10% off</span><img src="../assets/img/hero-trio.webp?v=6e0058b9" alt="Evernest Trio bundle: protein, eye health and multivitamin" width="1400" height="933" decoding="async"></a>
 <div class="pbody"><h3><a href="../products/evernest-trio/">The Evernest Trio</a></h3>
 <p class="punit">One of each hero · 3 products</p>
-<div class="price"><span class="now">₹2,337</span><span class="mrp">₹2,597</span><span class="off">10% off</span></div>
-<button class="btn btn-add js-trio" data-act="cart" data-price="2337" data-mrp="2597" data-thumb="../assets/img/hero-trio.webp?v=c46546c6" type="button">Add to cart</button>
+<div class="price"><span class="now">₹1,437</span><span class="mrp">₹1,597</span><span class="off">10% off</span></div>
+<button class="btn btn-add js-trio" data-act="cart" data-price="1437" data-mrp="1597" data-thumb="../assets/img/hero-trio.webp?v=6e0058b9" type="button">Add to cart</button>
 </div></article></div>
 <p class="noresult" id="noresult" hidden>No products match your search. <a href="../shop/">Show all products</a></p>
 <div class="callout shop-pay">Pay your way: UPI, PhonePe, Paytm, Google Pay, cards and net banking.
